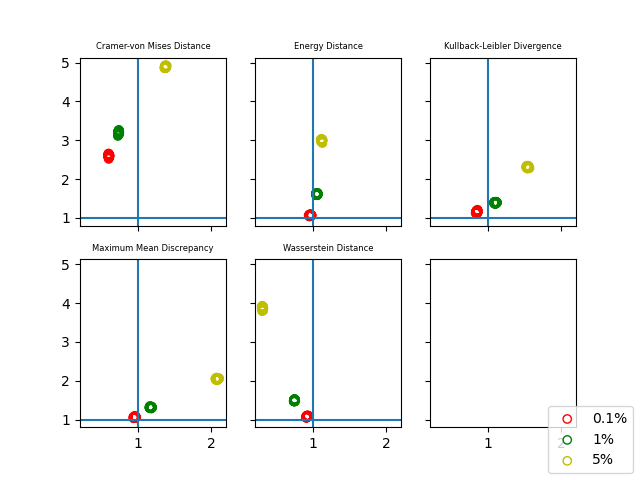
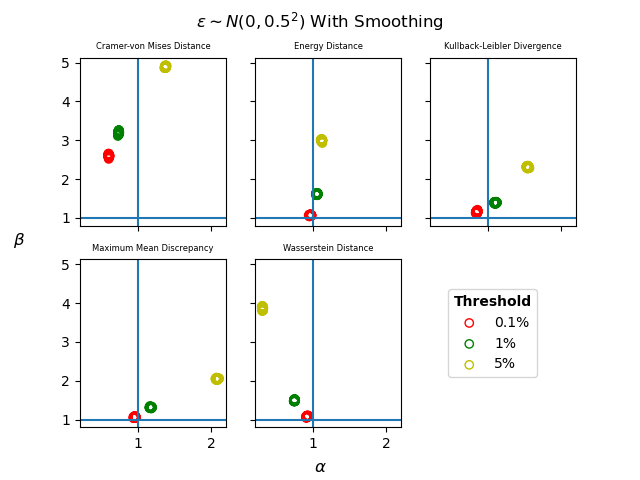
cleaned up result plots.

diff --git a/lotka_volterra/results_table.py b/lotka_volterra/results_table.py
@@ -7,10 +7,26 @@ import os
 DATAFRAME_PATH = "./lotka_volterra/dataframe/all_summary_statistics.csv"
 PLOT_PATH = "./lotka_volterra/plots"
 
+model_dict = {
+    "n0_no_smoothing": "ε ~ N(0, 0) No Smoothing",
+    "n0.25_no_smoothing": "ε ~ N(0, 0.25^2) No Smoothing",
+    "n0.25_smoothing": "ε ~ N(0, 0.25^2) With Smoothing",
+    "n0.5_no_smoothing": "ε ~ N(0, 0.5^2) No Smoothing",
+    "n0.5_smoothing": "ε ~ N(0, 0.5^2) With Smoothing",
+    "n0.75_no_smoothing": "ε ~ N(0, 0.75^2) No Smoothing",
+    "n0.75_smoothing": "ε ~ N(0, 0.75^2) With Smoothing",
+    "nlinear_no_smoothing": "ε ~ N(0, t^2) No Smoothing",
+    "nlinear_smoothing": "ε ~ N(0, t^2) Smoothing",
+    "a": "ɑ",
+    "b": "β"
+}
 df = pd.read_csv(DATAFRAME_PATH)
+df.rename(columns={"model": "Model", "param": "Parameter"}, inplace=True)
+df["Model"].replace(model_dict, inplace=True, regex=True)
+df["Parameter"].replace(model_dict, inplace=True, regex=True)
 median = df[(df["summary_statistic"] == "Median") & (df["quantile"] == "0.1%")].reset_index(drop=True)
 
-keep_cols = ["model", "param", "Cramer-von Mises Distance", "Energy Distance", "Kullback-Leibler Divergence", "Maximum Mean Discrepancy", "Wasserstein Distance"]
+keep_cols = ["Model", "Parameter", "Cramer-von Mises Distance", "Energy Distance", "Kullback-Leibler Divergence", "Maximum Mean Discrepancy", "Wasserstein Distance"]
 
 median_table = median[keep_cols]
 
@@ -18,7 +34,7 @@ median_table = median[keep_cols]
 
 median_table["True Value"] = np.ones(len(median_table))
 piv_table = pd.pivot_table(median_table, values=["True Value", "Cramer-von Mises Distance", "Energy Distance", "Kullback-Leibler Divergence",
-                                          "Maximum Mean Discrepancy", "Wasserstein Distance"], index = ["model", "param"])
+                                          "Maximum Mean Discrepancy", "Wasserstein Distance"], index = ["Model", "Parameter"])
 
 piv_table = piv_table[["True Value", "Cramer-von Mises Distance", "Energy Distance", "Kullback-Leibler Divergence",
                        "Maximum Mean Discrepancy", "Wasserstein Distance"]]
@@ -34,7 +50,7 @@ rmse = df[(df["summary_statistic"] == "RMSE") & (df["quantile"] == "0.1%")].rese
 rmse = rmse[keep_cols]
 
 rmse_table = pd.pivot_table(rmse, values=["Cramer-von Mises Distance", "Energy Distance", "Kullback-Leibler Divergence",
-                                          "Maximum Mean Discrepancy", "Wasserstein Distance"], index = ["model", "param"])
+                                          "Maximum Mean Discrepancy", "Wasserstein Distance"], index = ["Model", "Parameter"])
 
 rmse_styled = rmse_table.style.background_gradient(axis=None, vmin=0, vmax=10, cmap="YlOrRd") #adding a gradient based on values in cell
 rmse_styled.format(precision=2)

diff --git a/lotka_volterra/posterior_distribution_plot.py b/lotka_volterra/posterior_distribution_plot.py
@@ -48,7 +48,7 @@ for model in models:
     alpha_values, beta_values = {}, {}
     metric_path = os.path.join(MODELS_PATH, model)
     plot_path = os.path.join(PLOT_PATH, model)
-    metrics = os.listdir(metric_path)
+    metrics = os.listdir(metric_path) 
     for metric in metrics:
         posterior_path = os.path.join(metric_path, metric)
         posteriors = os.listdir(posterior_path)
@@ -71,13 +71,23 @@ for model in models:
         ax[1].set_xlabel(r"$\beta$")
         ax[0].set_ylabel("")
         ax[1].set_ylabel("")
-        ax[0].set_title(model, fontsize=7)
-
-    # handles, labels = ax[0].get_legend_handles_labels()  # Collect labels from the first subplot
+        # ax[0].set_title(model, fontsize=7)
+    
+    # Title for plot
+    model_name = model.split("_")
+    model_noise = model_name[0][1:len(model_name[0])]
+    if len(model_name) == 3:
+        model_smoothing = "No Smoothing"
+    else:
+        model_smoothing = "With Smoothing"
+    
+    if model_noise == "linear":
+        model_noise = "t"
+    plot_title = f"$\epsilon\sim N(0, {model_noise}^2)$ {model_smoothing}"
+    fig.suptitle(plot_title)
     fig.supylabel("density")
     plt.subplots_adjust(bottom=0.15)
-    plt.legend()
-    # fig.legend(handles, labels, loc='lower center', ncol=len(metric), bbox_to_anchor=(0.5, -0.05), fontsize=7)  # Adjust location and number of columns in the legend
+    plt.legend(title="Distance Metric", title_fontproperties={'weight':'bold'})
     fig.tight_layout()
     save_path = os.path.join(plot_path, "posterior_distribution.png")
     plt.savefig(save_path)

diff --git a/lotka_volterra/scatter_plot.py b/lotka_volterra/scatter_plot.py
@@ -3,7 +3,6 @@ import pandas as pd
 import numpy as np
 import os
 
-DISTANCE_METRIC = ["Wasserstein Distance"]
 RESULT_PATH = "./lotka_volterra/results"
 PLOT_PATH = "./lotka_volterra/plots"
 QUANTILE = ["0.1%", "1%", "5%"]
@@ -31,8 +30,22 @@ if __name__ == "__main__":
             ax[idx].set_title(metric, fontsize=6)
             ax[idx].axvline(1)
             ax[idx].axhline(1)
+        ax[-1].axis('off')
         
-        fig.legend(QUANTILE, loc="lower right")
+        # Title for plot
+        model_name = model.split("_")
+        model_noise = model_name[0][1:len(model_name[0])]
+        if len(model_name) == 3:
+            model_smoothing = "No Smoothing"
+        else:
+            model_smoothing = "With Smoothing"
+        if model_noise == "linear":
+            model_noise = "t"
+        plot_title = f"$\epsilon\sim N(0, {model_noise}^2)$ {model_smoothing}"
+        fig.suptitle(plot_title)
+        fig.supxlabel(r'$\alpha$')
+        fig.supylabel(r'$\beta$', rotation=0)
+        fig.legend(QUANTILE, loc="lower right", title="Threshold", title_fontproperties={'weight':'bold'}, bbox_to_anchor=(0.85, 0.2))
         plot_model_path = os.path.join(PLOT_PATH, model)
         if not os.path.isdir(plot_model_path):
             os.mkdir(plot_model_path)

diff --git a/lotka_volterra/calculate_abc_posterior.py b/lotka_volterra/calculate_abc_posterior.py
@@ -2,7 +2,7 @@ import numpy as np
 import os, sys
 from common.abc_posterior import abc_posterior
 
-NUM_RUNS = 10
+NUM_RUNS = 100
 NPARAMS = 2 # Alpha and Beta
 SAVE_DIR = "./lotka_volterra/results"
 RUN_DIR = "./lotka_volterra/runs"
